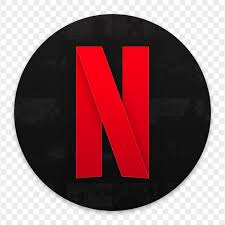
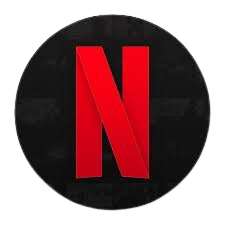
changes done to InterviewProcess File + final pictures added to Images Folder.

diff --git a/src/pages/InterviewProcess.jsx b/src/pages/InterviewProcess.jsx
@@ -1,50 +1,87 @@
-import React, { useState } from "react";
+// src/pages/InterviewProcess.jsx
+
+import React, {
+  createContext,
+  useContext,
+  useState,
+  useEffect
+} from "react";
 import { useLocation, useNavigate } from "react-router-dom";
 import ResumeButton from "../components/ResumeButton.jsx";
 
-const InterviewProcess = () => {
+// 1) IMPORT THE FIVE COMPANY LOGOS (ADJUST PATHS IF NEEDED)
+import AmazonLogo from "../../Images/Amazon.png";
+import FacebookLogo from "../../Images/facebook.png";
+import GoogleLogo from "../../Images/Google.png";
+import MicrosoftLogo from "../../Images/Microsoft.png";
+import NetflixLogo from "../../Images/Netflix.png";
+
+/* ----------------------------------
+   1) THEME LOGIC (no extra file)
+---------------------------------- */
+const ThemeContext = createContext();
+
+function ThemeProvider({ children }) {
+  // Load from localStorage or default to "light"
+  const [theme, setTheme] = useState(
+    () => localStorage.getItem("theme") || "light"
+  );
+
+  useEffect(() => {
+    const root = window.document.documentElement;
+    root.classList.remove("light", "dark");
+    root.classList.add(theme);
+    localStorage.setItem("theme", theme);
+  }, [theme]);
+
+  return (
+    <ThemeContext.Provider value={{ theme, setTheme }}>
+      {children}
+    </ThemeContext.Provider>
+  );
+}
+
+function useTheme() {
+  return useContext(ThemeContext);
+}
+
+/* ----------------------------------
+   2) INTERVIEW PROCESS COMPONENT
+---------------------------------- */
+function InterviewProcessPage() {
+  const { theme, setTheme } = useTheme();
   const location = useLocation();
   const navigate = useNavigate();
 
-  // Extract the job object from route state
+  // ====== YOUR ORIGINAL STATES & LOGIC ======
   const job = location.state?.job || {};
-
-  // States for resume import
   const [resumeText, setResumeText] = useState("");
   const [uploadedFileName, setUploadedFileName] = useState("");
-
-  // Fallback values if job object doesn't exist
   const defaultCompany = "Amazon";
   const defaultPosition = "Software Developer Internship";
-
-  // Use the job data if available, otherwise fall back
   const company = job.employer_nam || defaultCompany;
   const position = job.job_title || defaultPosition;
   const jobDescription = job.description || "";
 
-  // States for interview question generation
   const [behavioralQuestions, setBehavioralQuestions] = useState("");
   const [loading, setLoading] = useState(false);
   const [leetcodeLink, setLeetcodeLink] = useState("");
   const [buttonText, setButtonText] = useState("Generate Questions");
 
-  // Handle resume upload callback
+  // Handle resume upload
   const handleResumeParsed = (extractedText, fileName) => {
     setResumeText(extractedText);
     setUploadedFileName(fileName);
     console.log("Extracted Resume Text:", extractedText);
   };
 
-  // A helper function to parse and style each line of the AI's response
+  // Format AI response
   const formatBehavioralQuestions = (text) => {
     const lines = text.split("\n");
-
     return lines.map((line, index) => {
-      // Skip lines that start with "LeetCode is a great resource"
       if (line.trim().toLowerCase().startsWith("leetcode is a great resource")) {
-        return null; // Omit this line from rendering
+        return null;
       }
-      // Bold lines that look like a question: "1. Question:", "2. Question:", etc.
       if (/^\s*\d+\.\s*question:/i.test(line)) {
         return (
           <p key={index} className="font-bold text-indigo-700">
@@ -52,7 +89,6 @@ const InterviewProcess = () => {
           </p>
         );
       }
-      // Style lines that start with "Rationale:" or "Answer:"
       if (/^\s*(rationale:|answer:)/i.test(line)) {
         return (
           <p key={index} className="text-green-600 font-semibold">
@@ -60,13 +96,13 @@ const InterviewProcess = () => {
           </p>
         );
       }
-      // Default line style
       return <p key={index}>{line}</p>;
     });
   };
 
-  // Generate interview questions using OpenAI API
+  // OpenAI call
   const generateInterviewQuestions = async () => {
+    if (behavioralQuestions) return;
     setButtonText("Generating...");
     setLoading(true);
 
@@ -75,8 +111,7 @@ const InterviewProcess = () => {
         method: "POST",
         headers: {
           "Content-Type": "application/json",
-          // Replace with your actual API key or environment variable
-          Authorization: `Bearer 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`,
+          Authorization: `Bearer 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`
         },
         body: JSON.stringify({
           model: "gpt-4",
@@ -84,16 +119,16 @@ const InterviewProcess = () => {
             {
               role: "system",
               content:
-                "You are a professional interview coach who provides the most common behavioral interview questions for a specified company and position, along with a brief rationale for why each question is asked.",
+                "You are a professional interview coach who provides the most common behavioral interview questions for a specified company and position, along with a brief rationale for why each question is asked."
             },
             {
               role: "user",
               content: `
                 The user is interviewing at ${company} for the ${position} role.
                 Salary: ${job.salary || "N/A"}
-                
+
                 They have a resume (see below) which may or may not be relevant:
-                Resume Text: 
+                Resume Text:
                 ${resumeText}
 
                 Here's the official job description (if any):
@@ -102,18 +137,16 @@ const InterviewProcess = () => {
                 1. Provide the top 5 most frequent behavioral questions for ${company} for the ${position} position.
                 2. Explain briefly why each question is asked.
                 3. At the end, give a link to the relevant LeetCode resources (if any).
-              `,
-            },
-          ],
-        }),
+              `
+            }
+          ]
+        })
       });
 
       const data = await response.json();
       if (data.choices && data.choices[0].message) {
         const output = data.choices[0].message.content;
         setBehavioralQuestions(output);
-
-        // Construct a dummy LeetCode link for the constant company
         setLeetcodeLink(`https://leetcode.com/company/${company.toLowerCase()}`);
         setButtonText("Questions Generated");
       } else {
@@ -128,16 +161,42 @@ const InterviewProcess = () => {
     }
   };
 
+  // ====== THEME TOGGLER (MOON/SUN) ======
+  const toggleTheme = () => {
+    setTheme(theme === "light" ? "dark" : "light");
+  };
+
+  // ====== TAILWIND + THEME STYLING ======
+  // We switch the gradient based on `theme`.
+  const gradientClass =
+    theme === "light"
+      ? "bg-gradient-to-br from-pink-300 to-purple-300"
+      : "bg-gradient-to-br from-blue-600 to-purple-700";
+
+  // The color for text, etc.
+  const toggleIcon = theme === "light" ? "🌙" : "🌞";
+
   return (
-    <div className="min-h-screen bg-gradient-to-br from-blue-600 to-purple-700 p-10 flex flex-col items-center justify-center text-white">
+    <div
+      className={`min-h-screen p-10 flex flex-col items-center justify-center relative ${gradientClass} text-white`}
+    >
+      {/* THEME TOGGLE BUTTON in top-right corner */}
+      <button
+        onClick={toggleTheme}
+        className="absolute top-8 right-8 text-2xl bg-transparent border-none cursor-pointer"
+      >
+        {toggleIcon}
+      </button>
+
+      {/* WHITE CONTAINER */}
       <div className="w-full max-w-6xl bg-white shadow-2xl rounded-2xl p-10 text-gray-900">
         {/* Header */}
         <h1 className="text-4xl font-extrabold text-indigo-700 mb-6">
           Interview Process
         </h1>
         <p className="text-gray-700 mb-4">
-          Upload your resume (optional) for {company} and get behavioral questions for the{" "}
-          {position} role along with a relevant LeetCode link.
+          Upload your resume (optional) for {company} and get behavioral questions
+          for the {position} role along with a relevant LeetCode link.
         </p>
 
         {/* Resume Importer */}
@@ -155,7 +214,7 @@ const InterviewProcess = () => {
         <button
           onClick={generateInterviewQuestions}
           className="px-6 py-3 bg-indigo-600 text-white font-semibold rounded-lg shadow-md hover:bg-indigo-700 transition"
-          disabled={loading}
+          disabled={loading || behavioralQuestions !== ""}
         >
           {buttonText}
         </button>
@@ -185,9 +244,32 @@ const InterviewProcess = () => {
             </a>
           </div>
         )}
+
+        {/* 
+          3) TOP COMPANIES LOGOS 
+          - "items-end" + "h-24" to place logos at the bottom 
+          - They will bounce from the "ground" 
+        */}
+        <div className="mt-2 flex flex-wrap justify-center items-end gap-6 h-24">
+          <img src={AmazonLogo} alt="Amazon" className="h-12 animate-bounce" />
+          <img src={FacebookLogo} alt="Facebook" className="h-12 animate-bounce" />
+          <img src={GoogleLogo} alt="Google" className="h-12 animate-bounce" />
+          <img src={MicrosoftLogo} alt="Microsoft" className="h-12 animate-bounce" />
+          <img src={NetflixLogo} alt="Netflix" className="h-12 animate-bounce" />
+        </div>
       </div>
     </div>
   );
-};
+}
 
-export default InterviewProcess;
+/* ----------------------------------
+   3) EXPORT A SINGLE COMPONENT
+   (WRAPPED WITH THEME PROVIDER)
+---------------------------------- */
+export default function InterviewProcess() {
+  return (
+    <ThemeProvider>
+      <InterviewProcessPage />
+    </ThemeProvider>
+  );
+}
